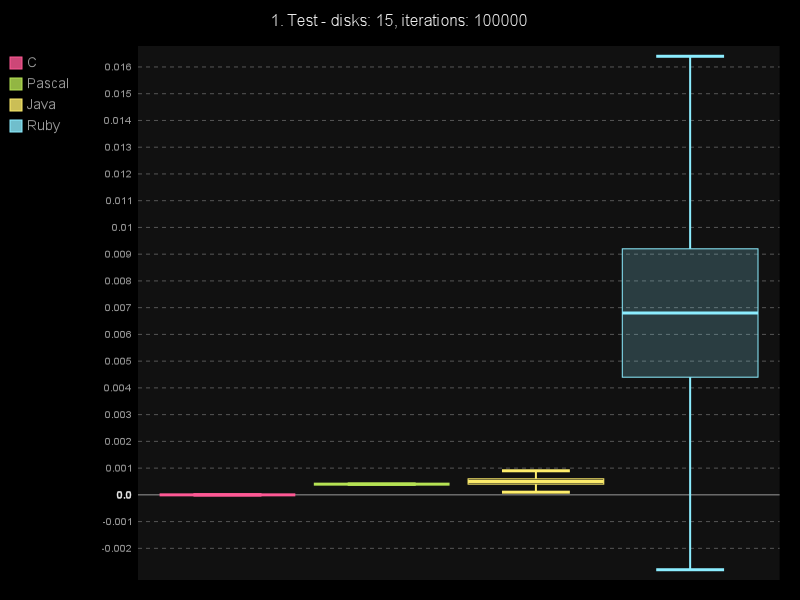
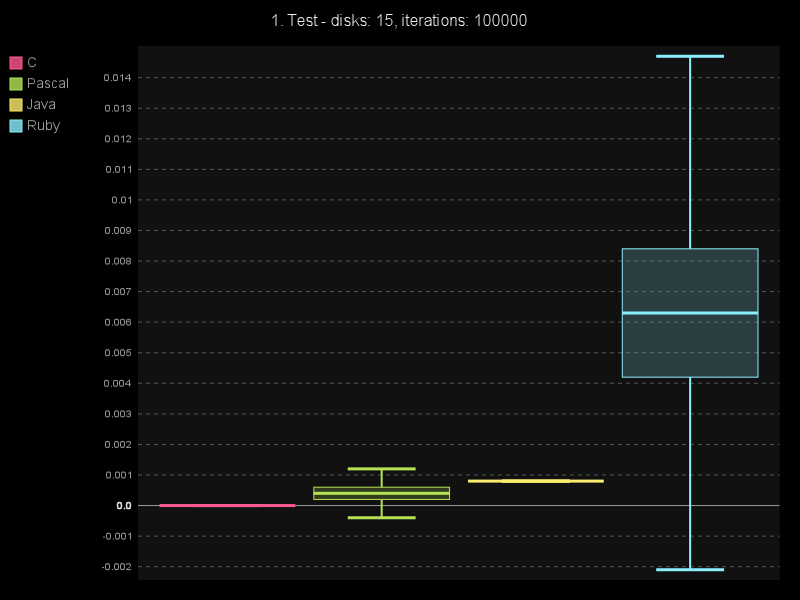
Fixed graphs

diff --git a/evaluator/docu_generator.py b/evaluator/docu_generator.py
@@ -11,7 +11,7 @@ from evaluator import config as C
 
 class DocuGenerator(object):
     
-    URL = 'https://github.com/Morzeux/LangBenchmarks/tree/master/%s'
+    #URL = 'https://github.com/Morzeux/LangBenchmarks/tree/master/%s'
     
     README_TEMPLATE = """
 # LangBenchmarks
@@ -105,10 +105,10 @@ to construct tables and graphs.
 #### Test %d. - Discs %d, Iterations %d
     
 %s
-    
-![alt text](%s "Bar graph results %d")
 
-![alt text](%s "Box graph results %d")
+![Bar graph results %d](%s)
+
+![Box graph results %d](%s)
 
 """
 
@@ -174,8 +174,6 @@ to construct tables and graphs.
 
             graphs.append((cls.save_graph(bar_chart,'bar_graph%d' % (i + 1)),
                            cls.save_graph(box_plot,'box_graph%d' % (i + 1))))
-            #bar_chart.render_to_file(graphs[-1][0])
-            #box_plot.render_to_file(graphs[-1][1])
 
         return graphs
 
@@ -214,8 +212,8 @@ to construct tables and graphs.
         for i, test in enumerate(results):
             j = i + 1
             res = cls.RESULTS_TEMPLATE % (j, test['disks'], test['iters'],
-                                          tables[i], cls.URL % graphs[i][0],
-                                          j, cls.URL % graphs[i][1], j)
+                                          tables[i], j, graphs[i][0],
+                                          j, graphs[i][1])
             text += res.lstrip()
 
         return text

diff --git a/README.md b/README.md
@@ -107,39 +107,39 @@ to construct tables and graphs.
 | Lang | Avg. cycles | Std. cycles | Avg. hanoi | Std. hanoi |
 | :-----: | :-----: | :-----: | :-----: | :-----: |
 | C | 0.000s | 0.00% | 0.000s | 0.00% |
-| Pascal | 0.000s | 122.47% | 0.000s | 122.47% |
-| Java | 0.000s | 122.47% | 0.001s | 81.65% |
-| Ruby | 0.004s | 23.18% | 0.009s | 17.39% |
-    
-![alt text](https://github.com/Morzeux/LangBenchmarks/tree/master/results/bar_graph1.png "Bar graph results 1")
+| Pascal | 0.000s | 200.00% | 0.001s | 81.65% |
+| Java | 0.001s | 50.00% | 0.001s | 50.00% |
+| Ruby | 0.004s | 17.82% | 0.008s | 23.33% |
 
-![alt text](https://github.com/Morzeux/LangBenchmarks/tree/master/results/box_graph1.png "Box graph results 1")
+![Bar graph results 1](results/bar_graph1.png)
+
+![Box graph results 1](results/box_graph1.png)
 
 #### Test 2. - Discs 20, Iterations 10000000
     
 | Lang | Avg. cycles | Std. cycles | Avg. hanoi | Std. hanoi |
 | :-----: | :-----: | :-----: | :-----: | :-----: |
 | C | 0.000s | 0.00% | 0.000s | 0.00% |
-| Pascal | 0.034s | 17.39% | 0.014s | 12.11% |
-| Java | 0.020s | 11.45% | 0.006s | 28.98% |
-| Ruby | 0.374s | 8.30% | 0.256s | 4.22% |
-    
-![alt text](https://github.com/Morzeux/LangBenchmarks/tree/master/results/bar_graph2.png "Bar graph results 2")
+| Pascal | 0.028s | 3.47% | 0.011s | 11.32% |
+| Java | 0.017s | 4.82% | 0.005s | 14.81% |
+| Ruby | 0.343s | 4.32% | 0.237s | 1.74% |
 
-![alt text](https://github.com/Morzeux/LangBenchmarks/tree/master/results/box_graph2.png "Box graph results 2")
+![Bar graph results 2](results/bar_graph2.png)
+
+![Box graph results 2](results/box_graph2.png)
 
 #### Test 3. - Discs 25, Iterations 100000000
     
 | Lang | Avg. cycles | Std. cycles | Avg. hanoi | Std. hanoi |
 | :-----: | :-----: | :-----: | :-----: | :-----: |
 | C | 0.000s | 0.00% | 0.000s | 0.00% |
-| Pascal | 0.293s | 1.66% | 0.355s | 2.99% |
-| Java | 0.178s | 5.74% | 0.208s | 17.60% |
+| Pascal | 0.288s | 0.56% | 0.341s | 3.12% |
+| Java | 0.171s | 7.46% | 0.168s | 1.16% |
 | Ruby | Dead | Dead | Dead | Dead |
-    
-![alt text](https://github.com/Morzeux/LangBenchmarks/tree/master/results/bar_graph3.png "Bar graph results 3")
 
-![alt text](https://github.com/Morzeux/LangBenchmarks/tree/master/results/box_graph3.png "Box graph results 3")
+![Bar graph results 3](results/bar_graph3.png)
+
+![Box graph results 3](results/box_graph3.png)
 
 #### Test 4. - Discs 30, Iterations 1000000000
     
@@ -149,10 +149,10 @@ to construct tables and graphs.
 | Pascal | Dead | Dead | Dead | Dead |
 | Java | Dead | Dead | Dead | Dead |
 | Ruby | Dead | Dead | Dead | Dead |
-    
-![alt text](https://github.com/Morzeux/LangBenchmarks/tree/master/results/bar_graph4.png "Bar graph results 4")
 
-![alt text](https://github.com/Morzeux/LangBenchmarks/tree/master/results/box_graph4.png "Box graph results 4")
+![Bar graph results 4](results/bar_graph4.png)
+
+![Box graph results 4](results/box_graph4.png)
 
 #### Test 5. - Discs 32, Iterations 4294967295
     
@@ -162,8 +162,8 @@ to construct tables and graphs.
 | Pascal | Dead | Dead | Dead | Dead |
 | Java | Dead | Dead | Dead | Dead |
 | Ruby | Dead | Dead | Dead | Dead |
-    
-![alt text](https://github.com/Morzeux/LangBenchmarks/tree/master/results/bar_graph5.png "Bar graph results 5")
 
-![alt text](https://github.com/Morzeux/LangBenchmarks/tree/master/results/box_graph5.png "Box graph results 5")
+![Bar graph results 5](results/bar_graph5.png)
+
+![Box graph results 5](results/box_graph5.png)
 
